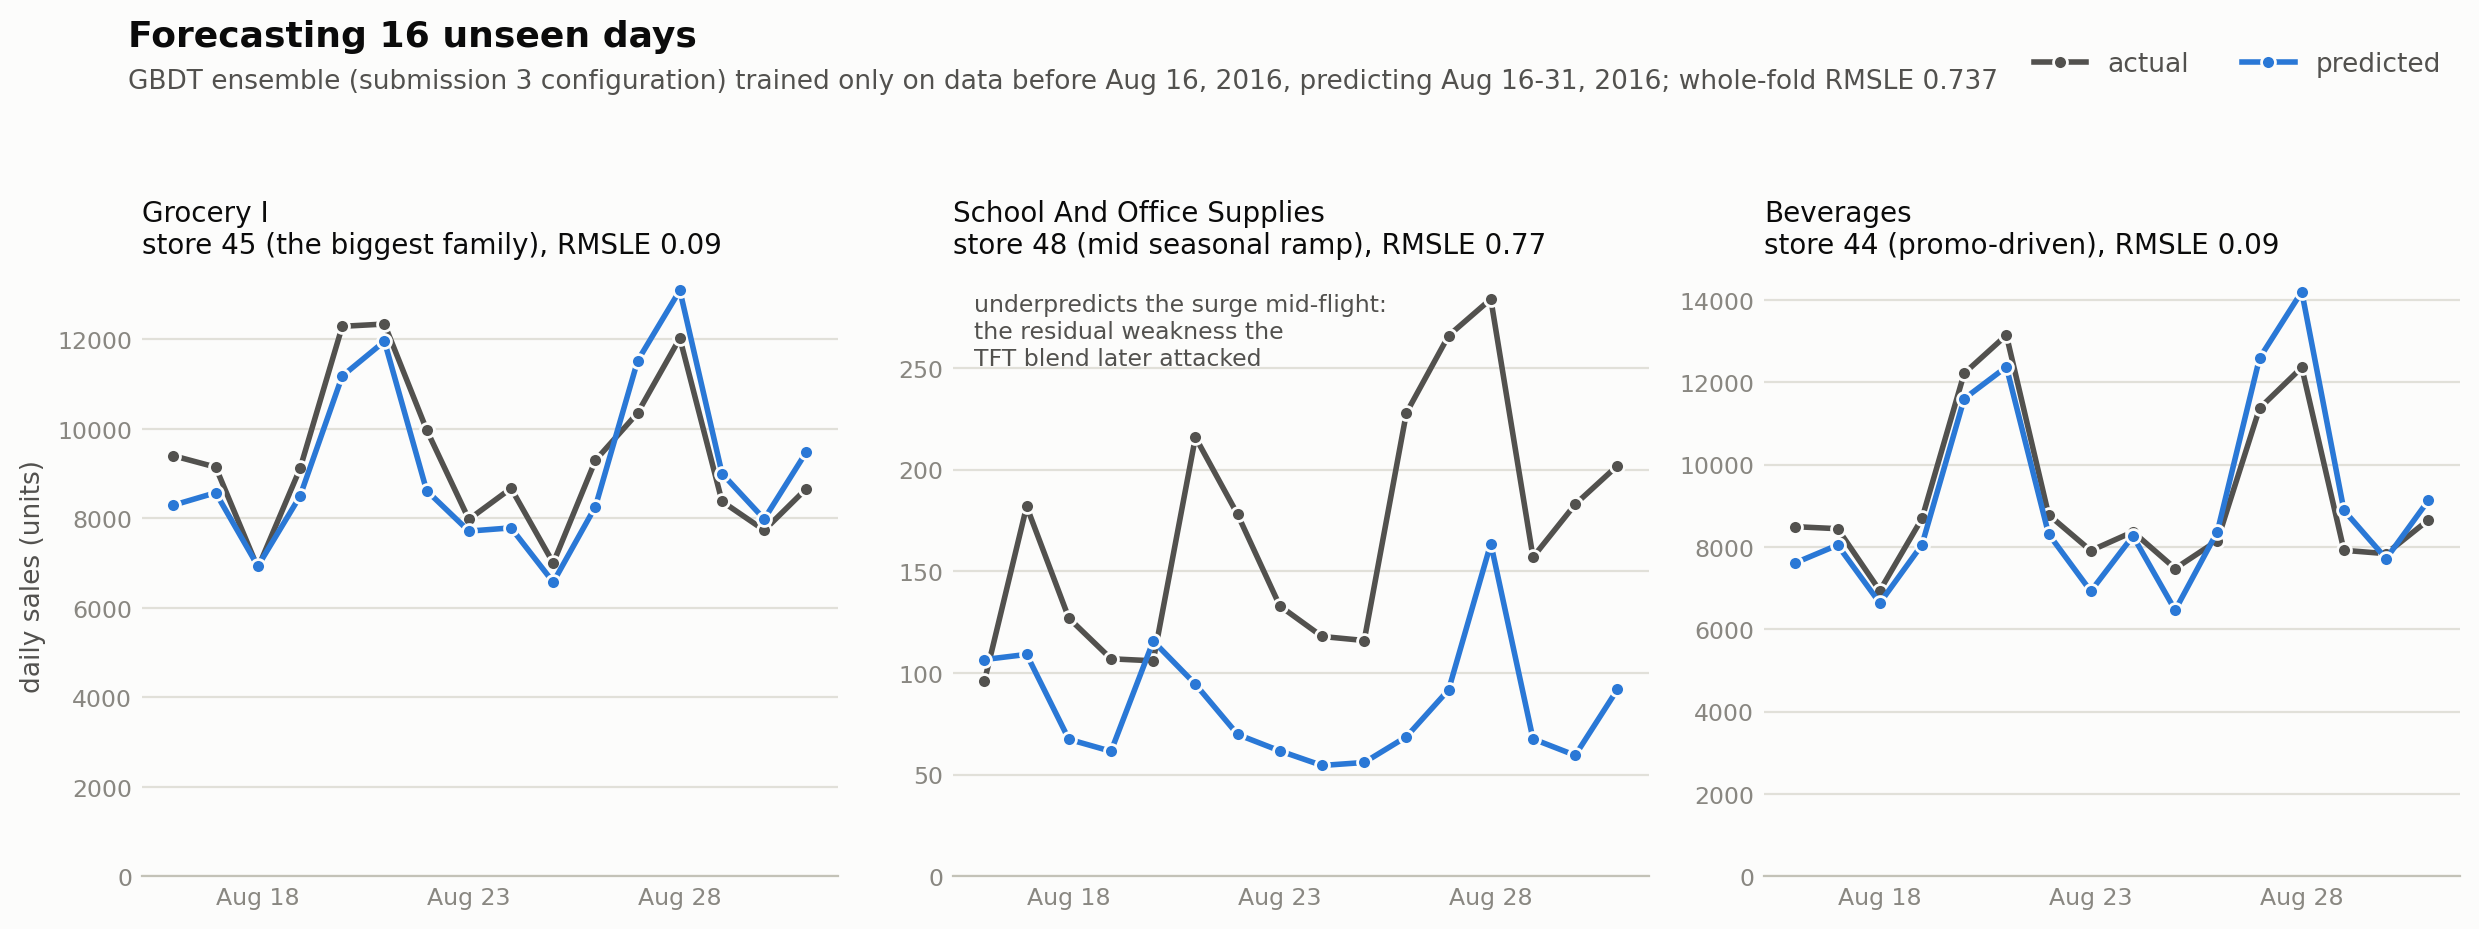
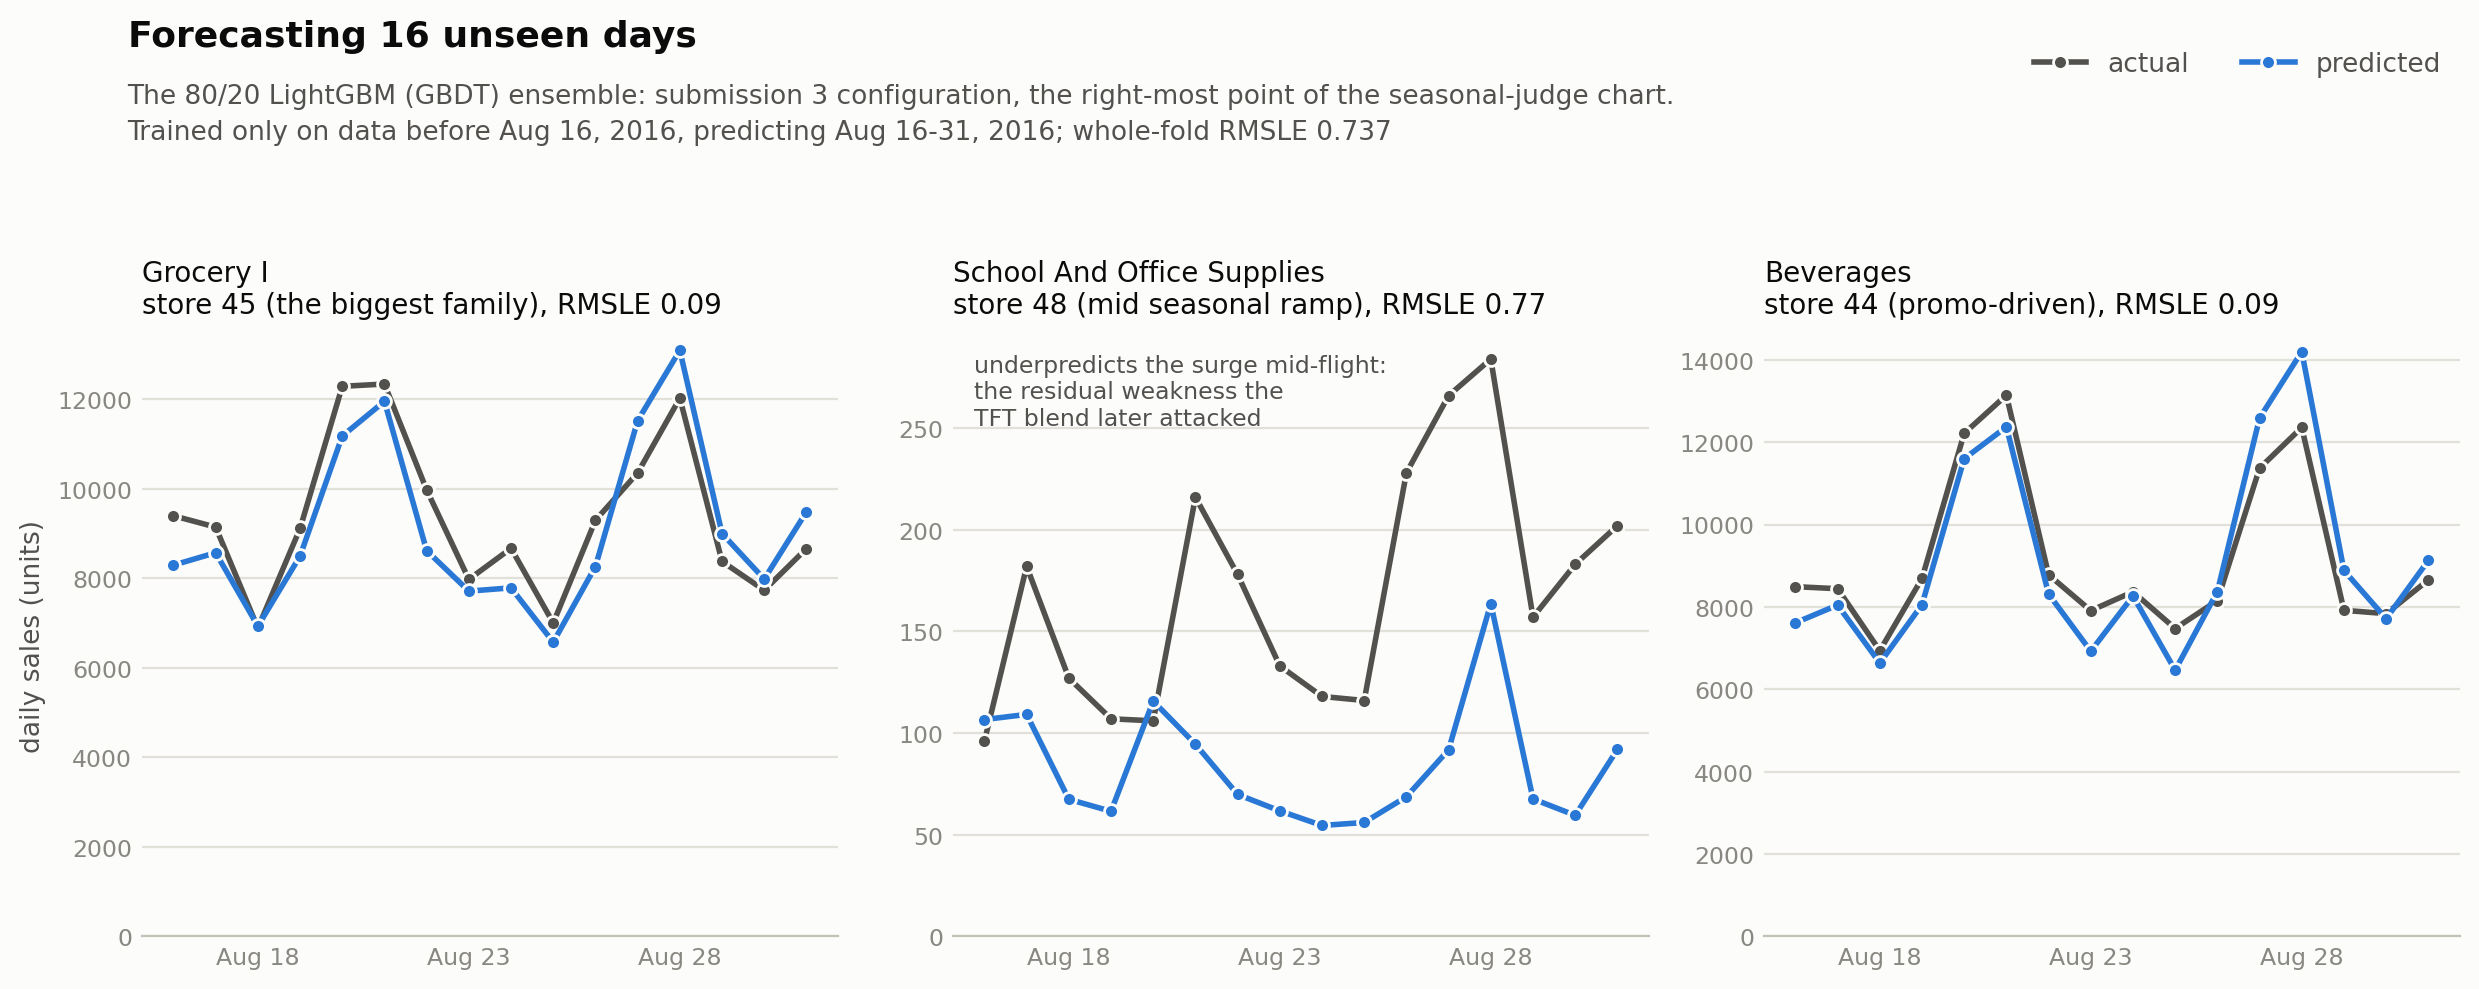
Name the model on the fold and forecast charts

diff --git a/README.md b/README.md
@@ -24,7 +24,7 @@ Season-sensitive choices were ranked on that second validation fold, the competi
 
 ![Seasonal fold ranking](assets/seasonal_fold.png)
 
-And this is what the ensemble's forecasts look like against reality on that fold, for three representative series:
+And this is what the winning configuration from that chart (its right-most point, the 80/20 LightGBM ensemble) looks like against reality on the same fold, for three representative series:
 
 ![Predicted vs actual](assets/pred_vs_actual.png)
 
